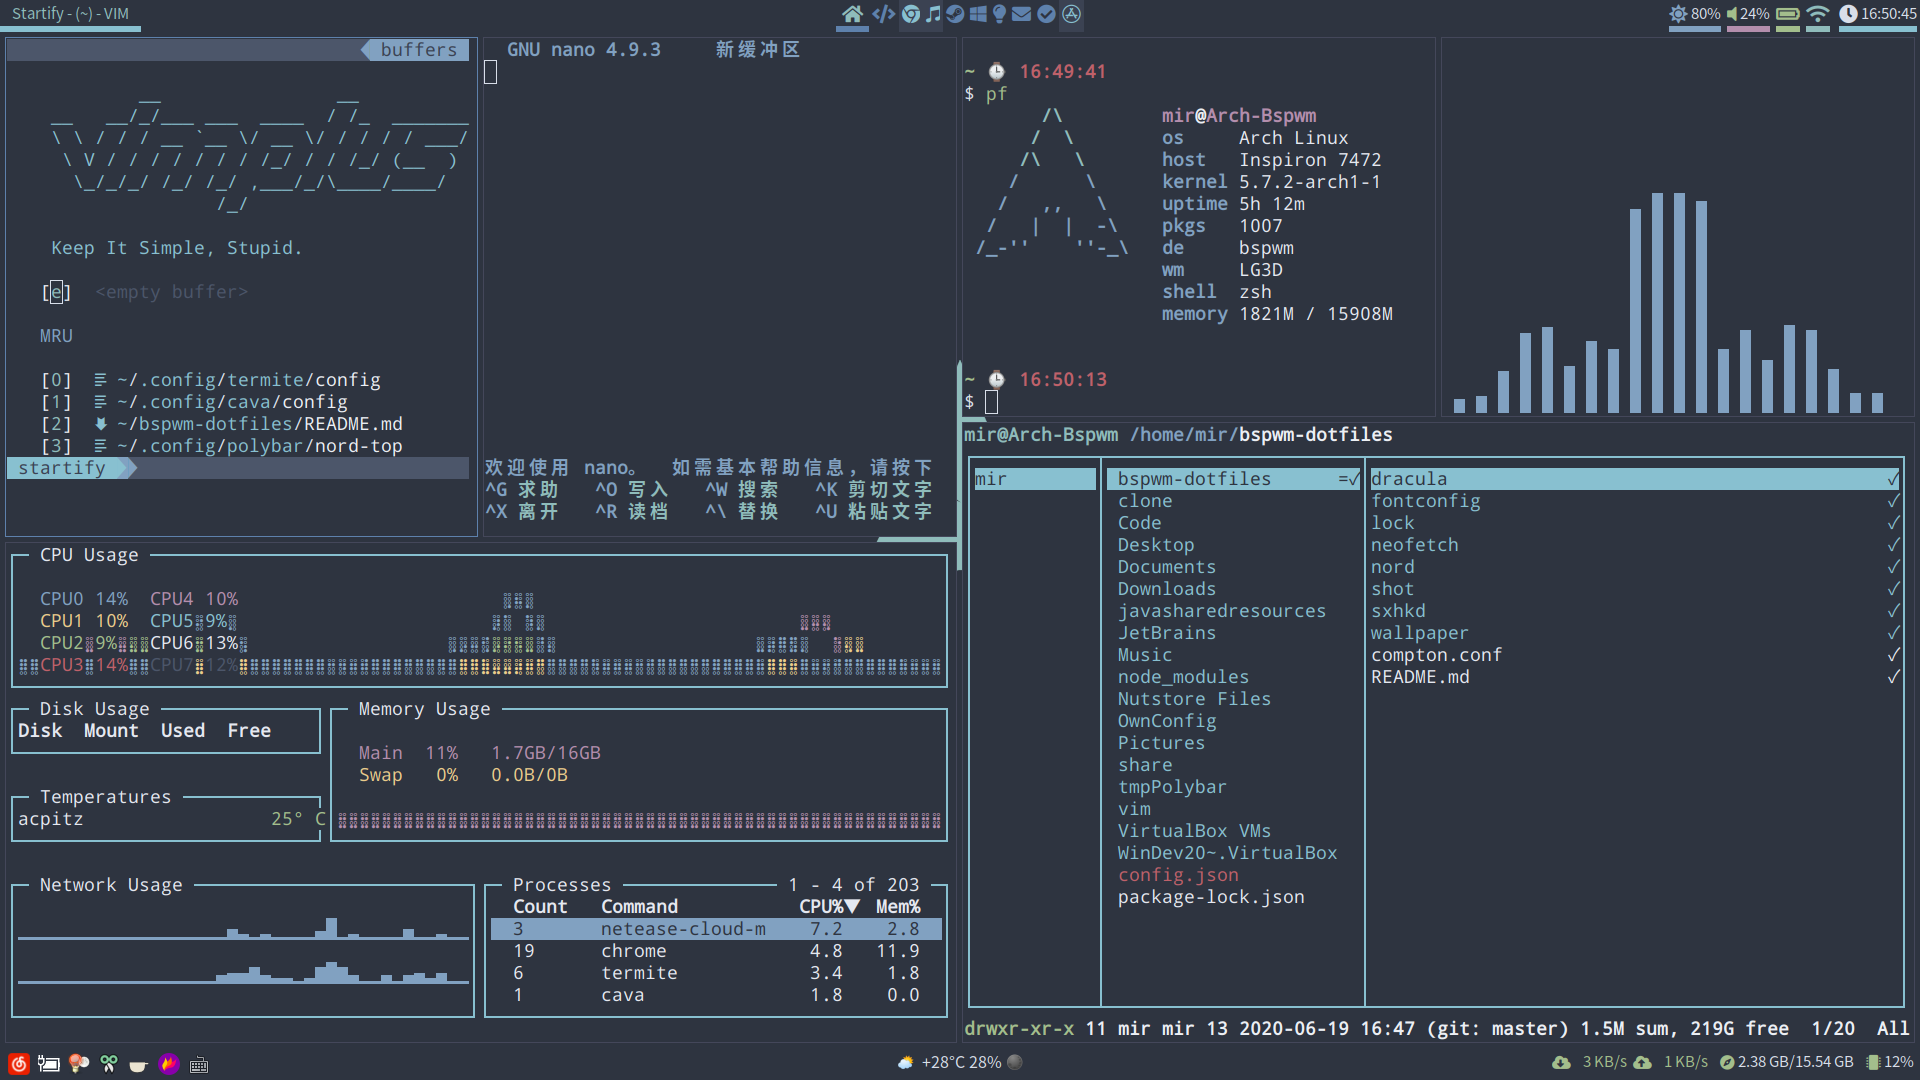
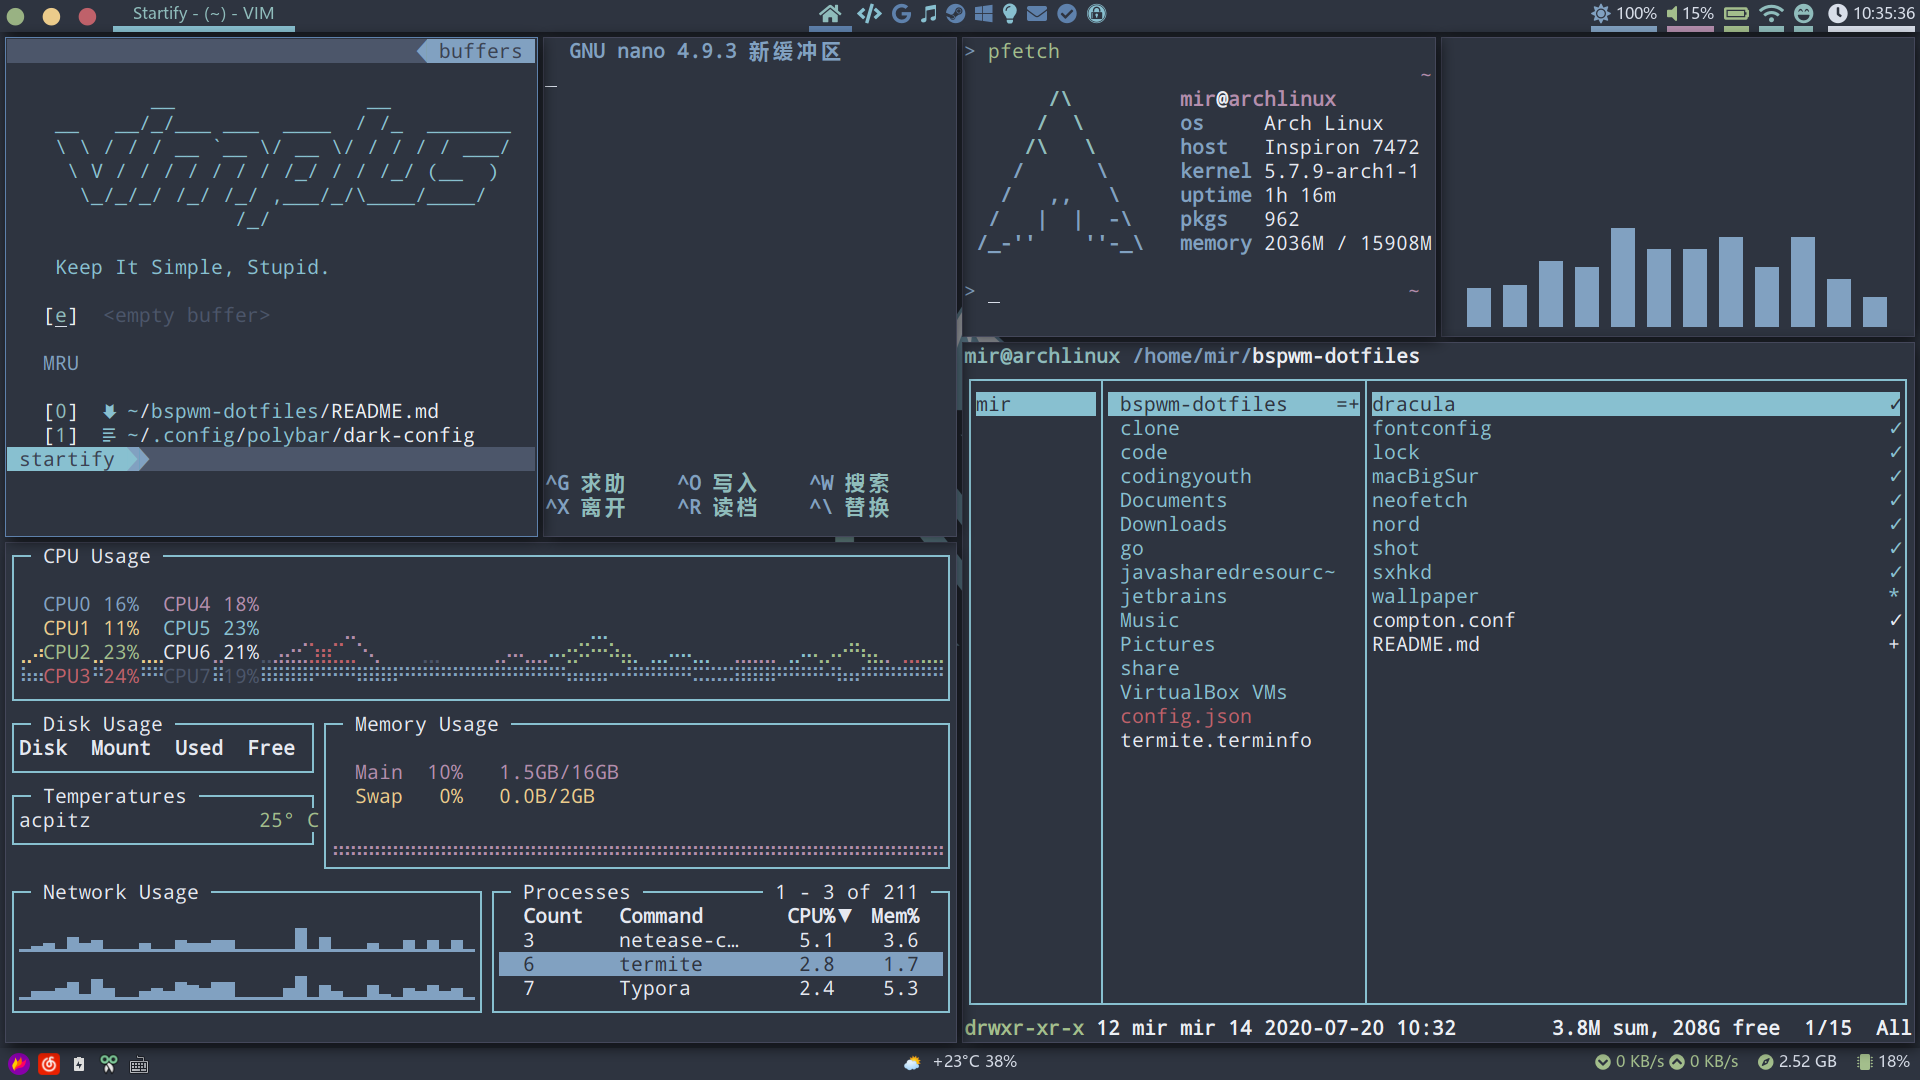
modify nord wallpaper and shot

diff --git a/README.md b/README.md
@@ -10,7 +10,7 @@
 
 ![nord.png](shot/nord.png)
 
-![nord-wallpaper](wallpaper/Nord.png)
+![nord-wallpaper](wallpaper/NordPeeks.png)
 
 ## MacBigSur:
 
